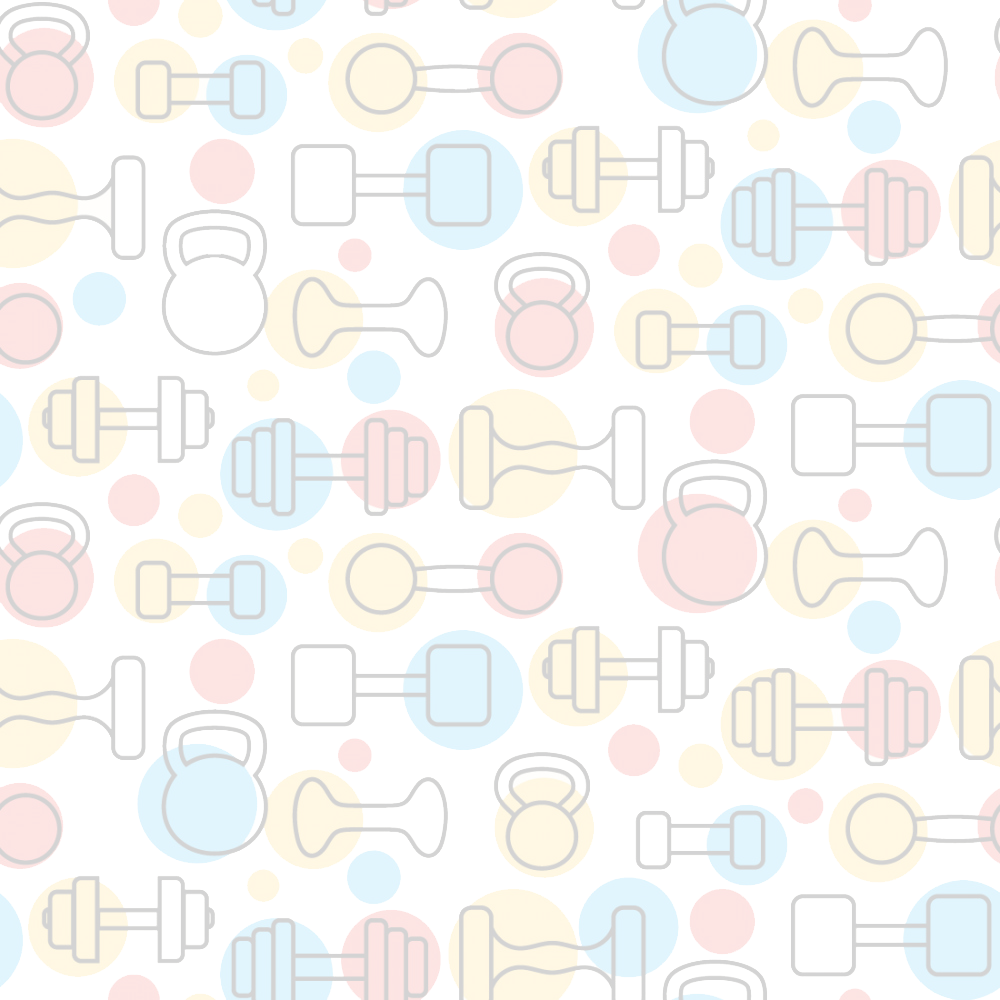
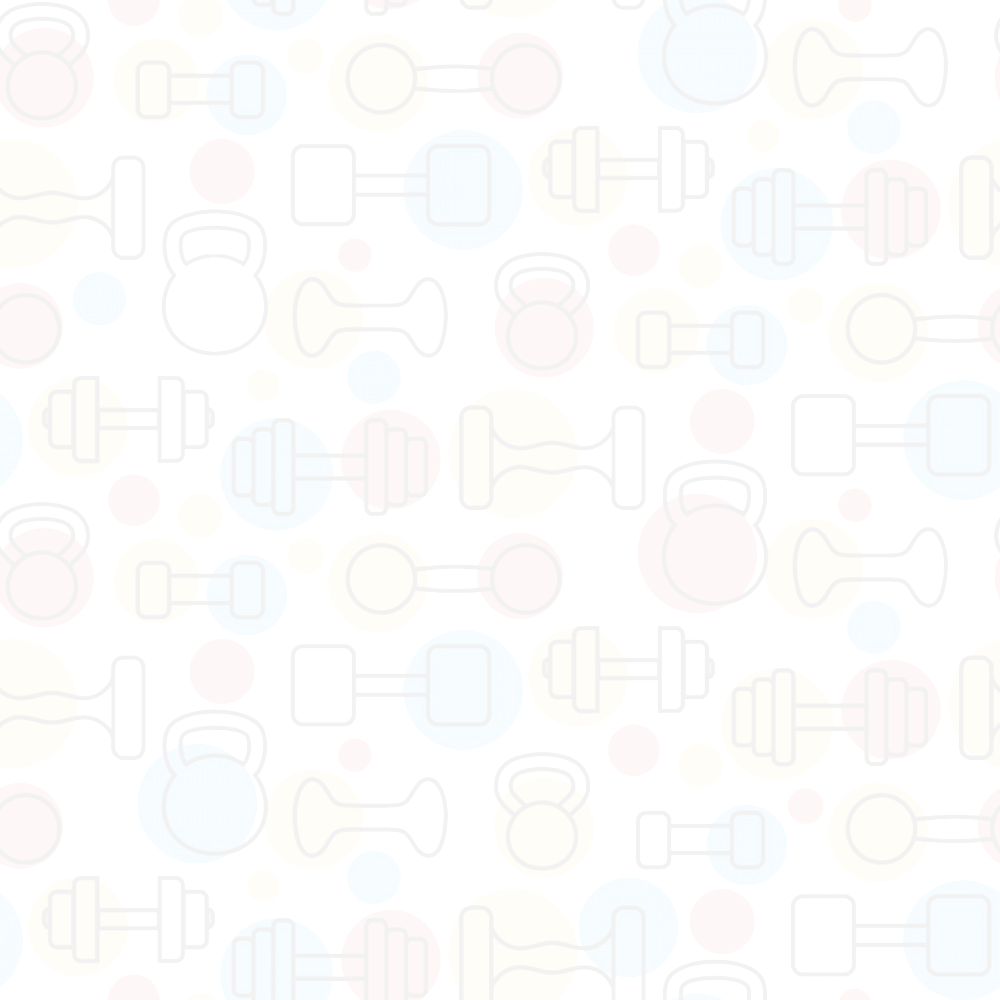
uptade designs

diff --git a/projetos HTML_CSS/site - visita br/index.html b/projetos HTML_CSS/site - visita br/index.html
@@ -16,8 +16,8 @@
     </header>
     <main>
         <article>
-            Te ajudo a melhorar sua relação com o TREINO e conquistar sua MELHOR versão!
-            Personal SP ZonaSul | Treino online
+            Te ajudo a melhorar a sua relação com o seu treino e conquistar a sua melhor versão!
+            <p>Personal SP ZonaSul | Treino online</p>
         </article>
     </main>
     

diff --git a/projetos HTML_CSS/site - visita br/style.css b/projetos HTML_CSS/site - visita br/style.css
@@ -98,7 +98,17 @@ h3 a {
 
 
 article {
+    background-image: url(imagens/fundoparalax.png);
+    font-family: var(--fonte01);
+    font-size: 2.5em;
     background-color: rgb(255, 255, 255);
+    text-align: center;
+
+}
+
+article p {
+    font-family: var(--fonte02);
+    color: brown;
 }
 
 main {
